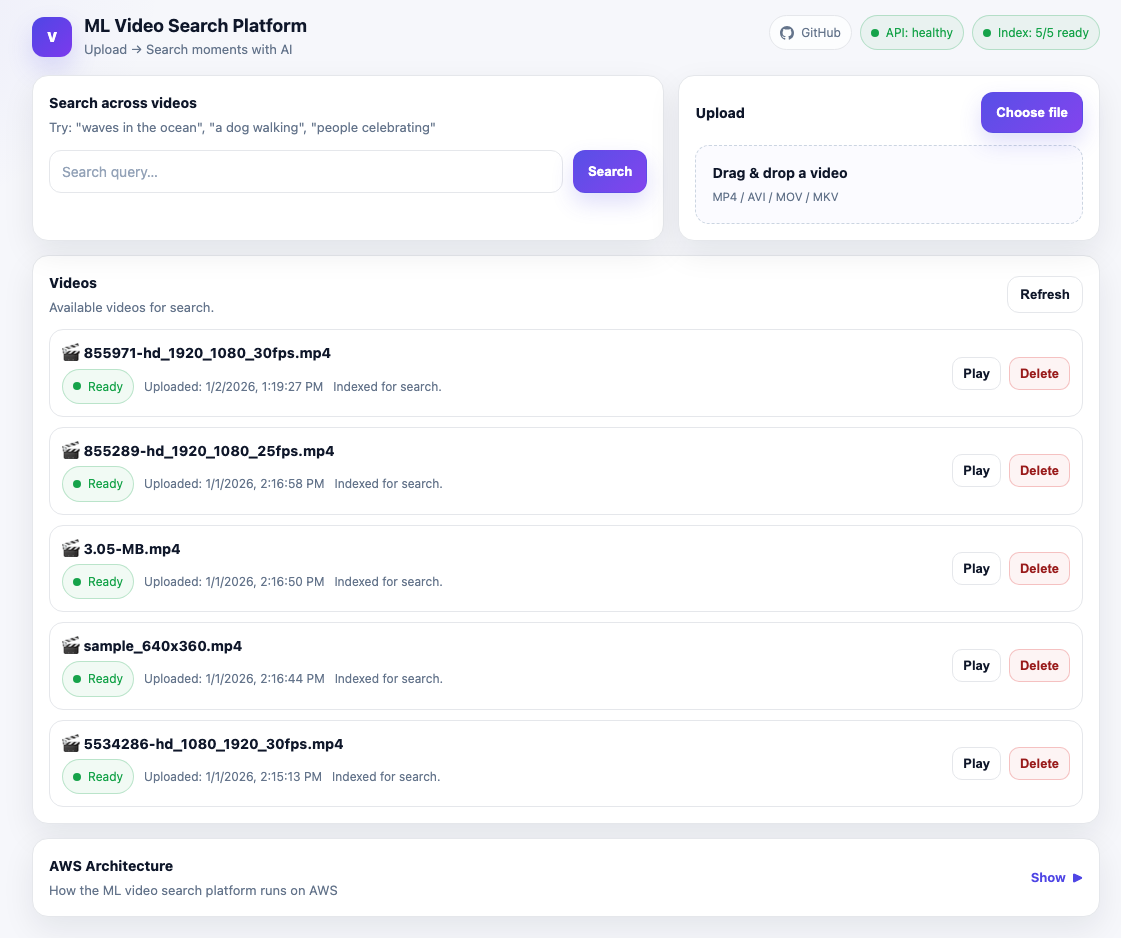
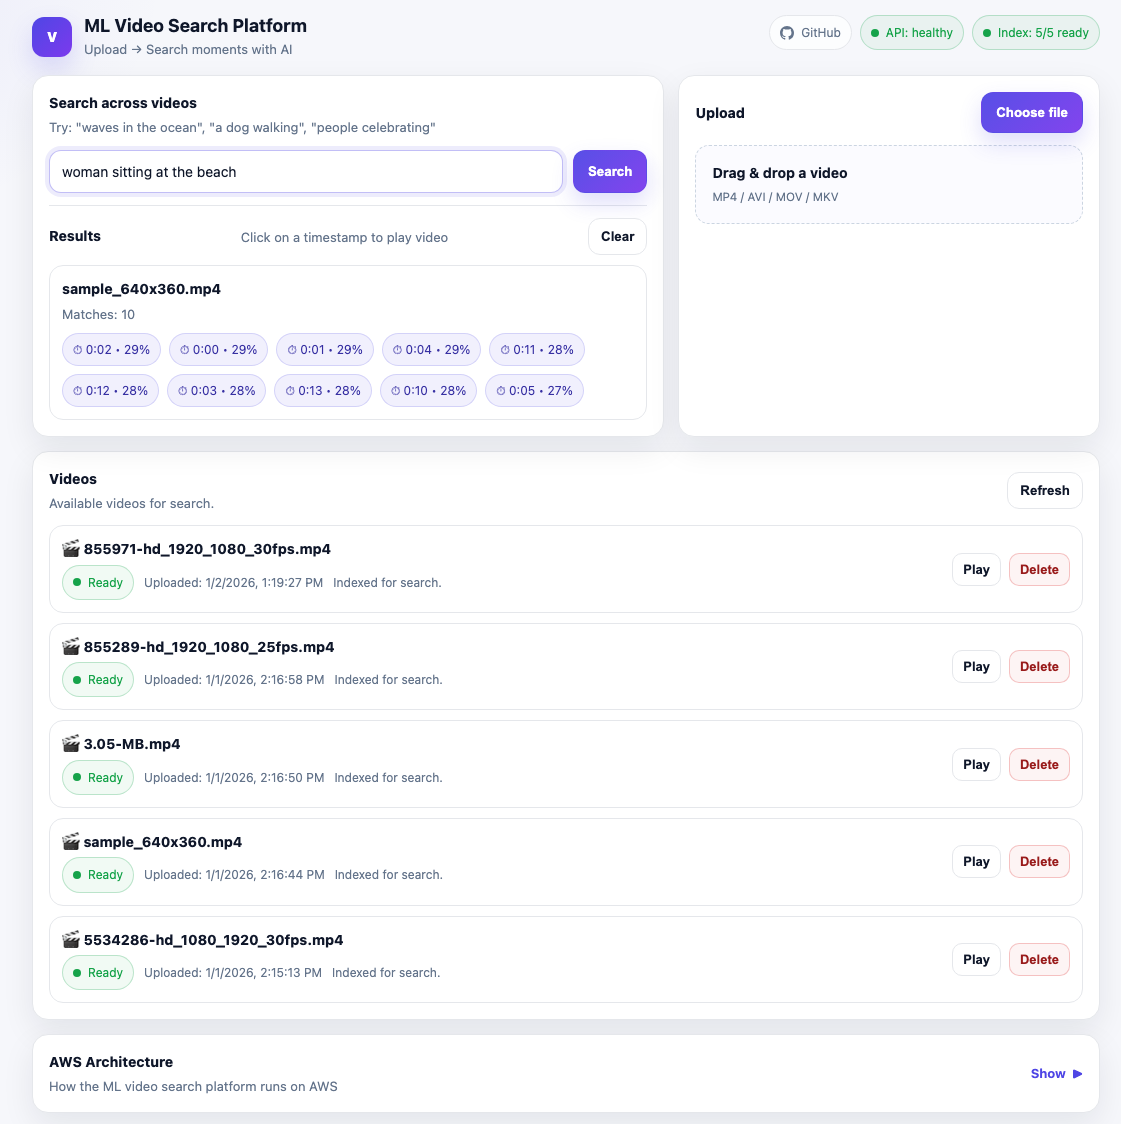
chore: fix typo in readme and update frontend screenshot

diff --git a/README.md b/README.md
@@ -14,7 +14,6 @@ An ML infrastructure that enables natural language search across video content. 
 <div align="center">
   <img src="./docs/diagrams/frontend.png" alt="User Interface" width="100%">
 </div>
-f
 
 ### Key Features
 

diff --git a/docs/index.md b/docs/index.md
@@ -14,7 +14,6 @@ An ML infrastructure that enables natural language search across video content. 
 <div align="center">
   <img src="./diagrams/frontend.png" alt="User Interface" width="75%">
 </div>
-f
 
 ### Key Features
 
